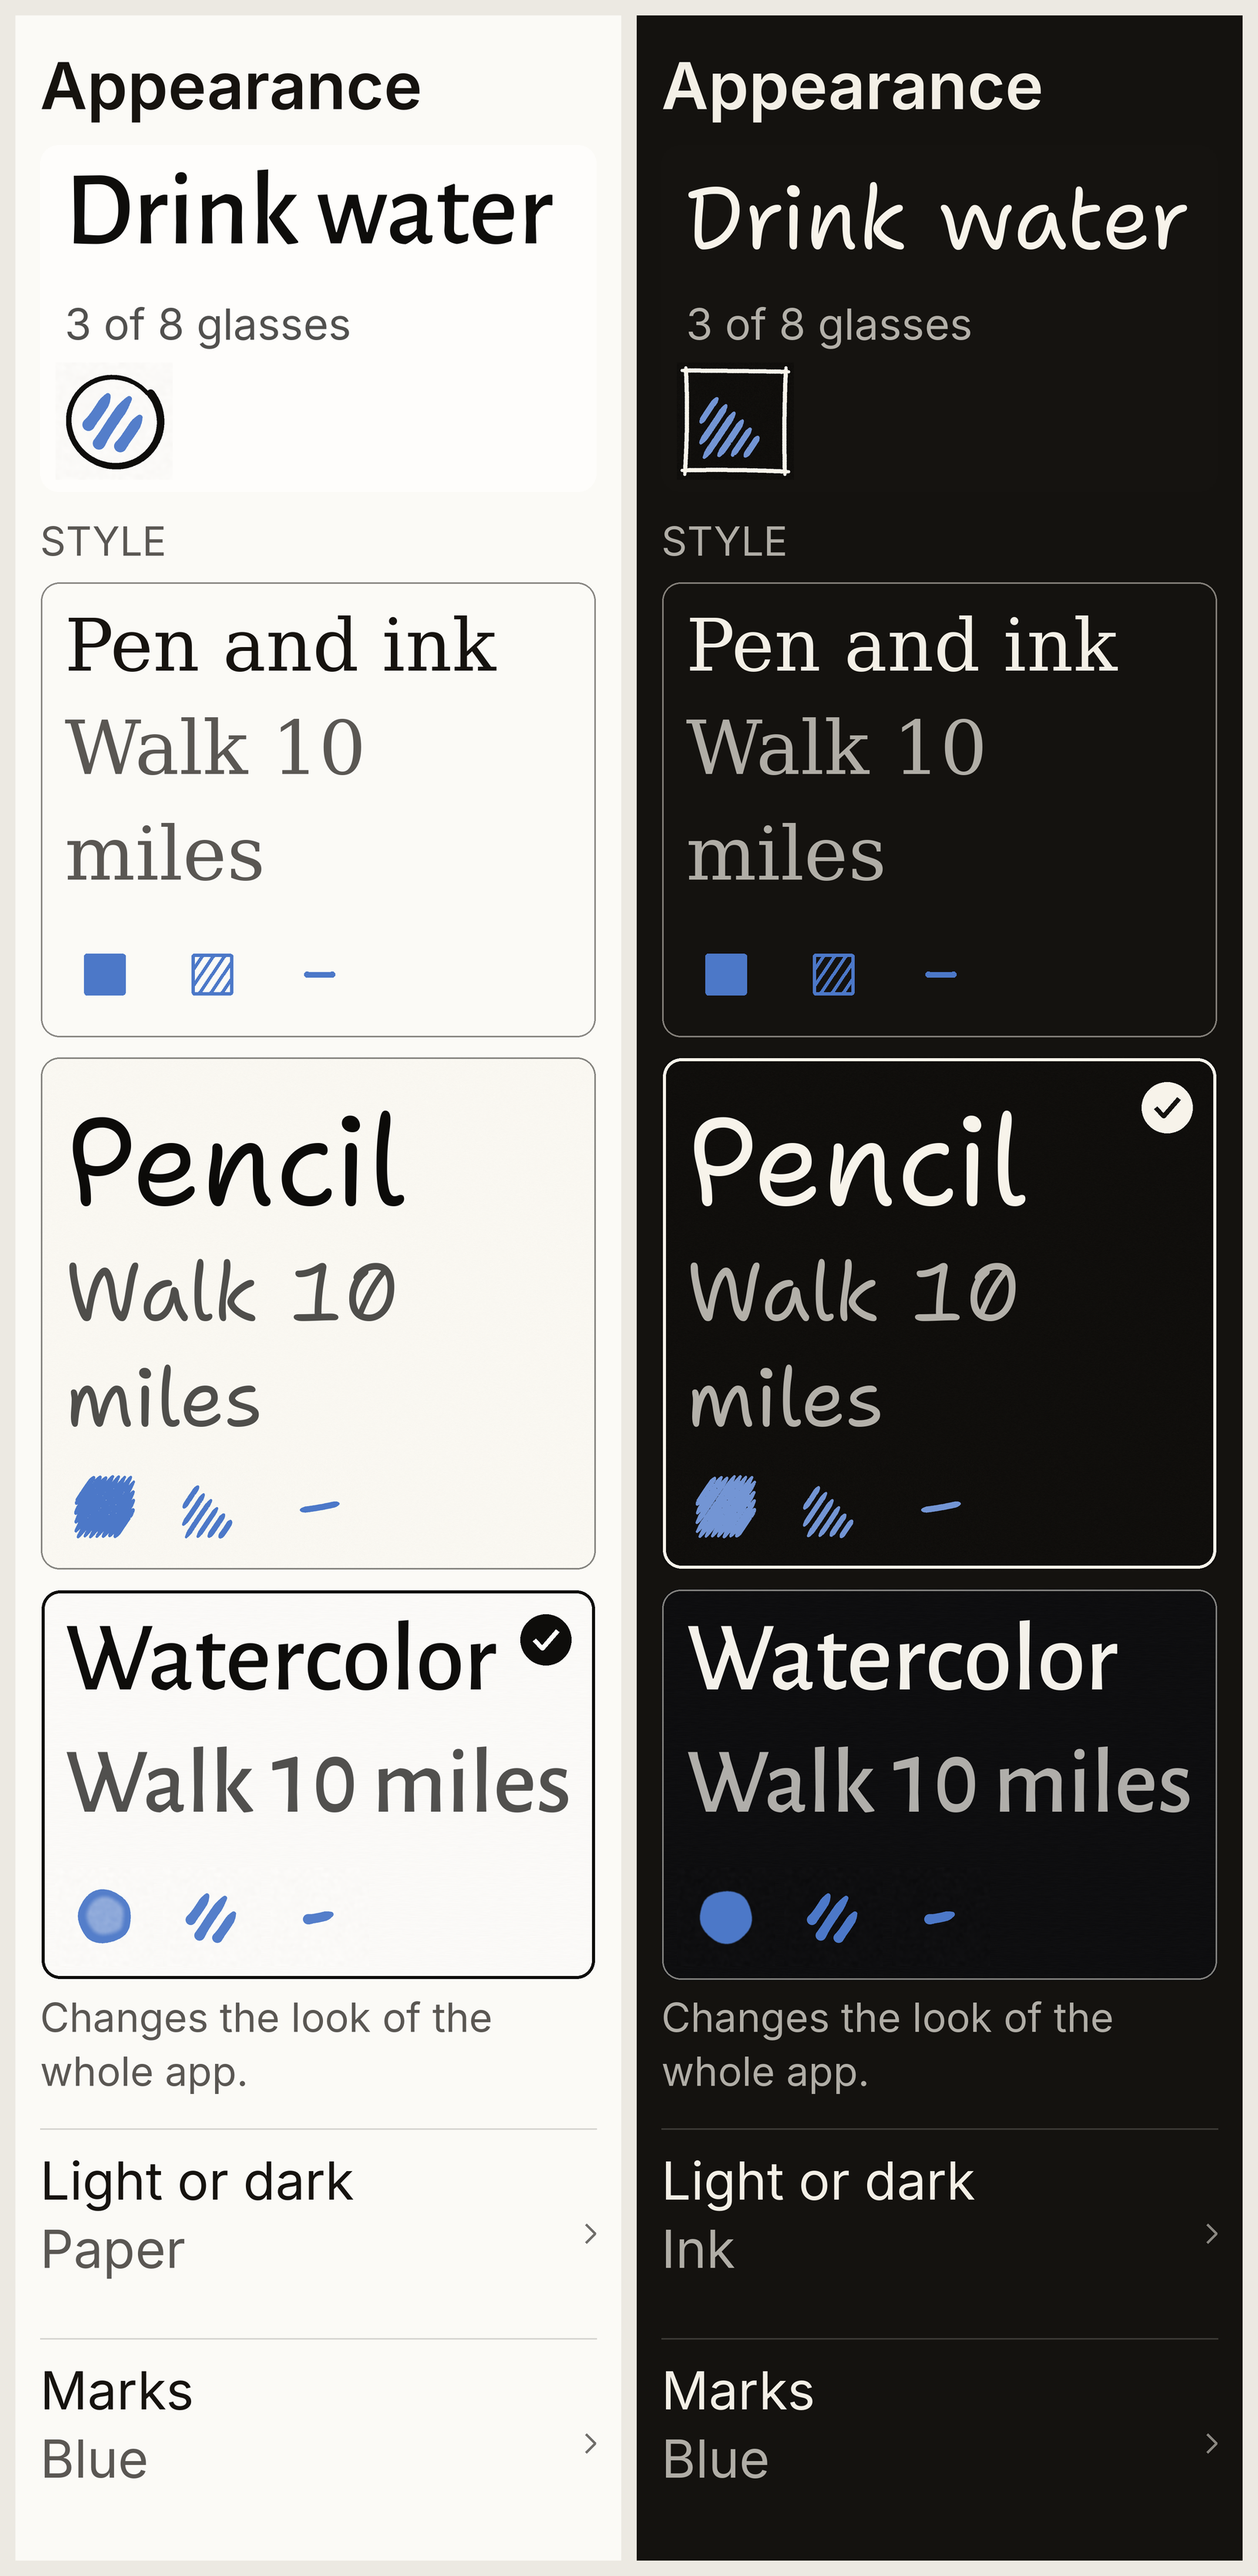
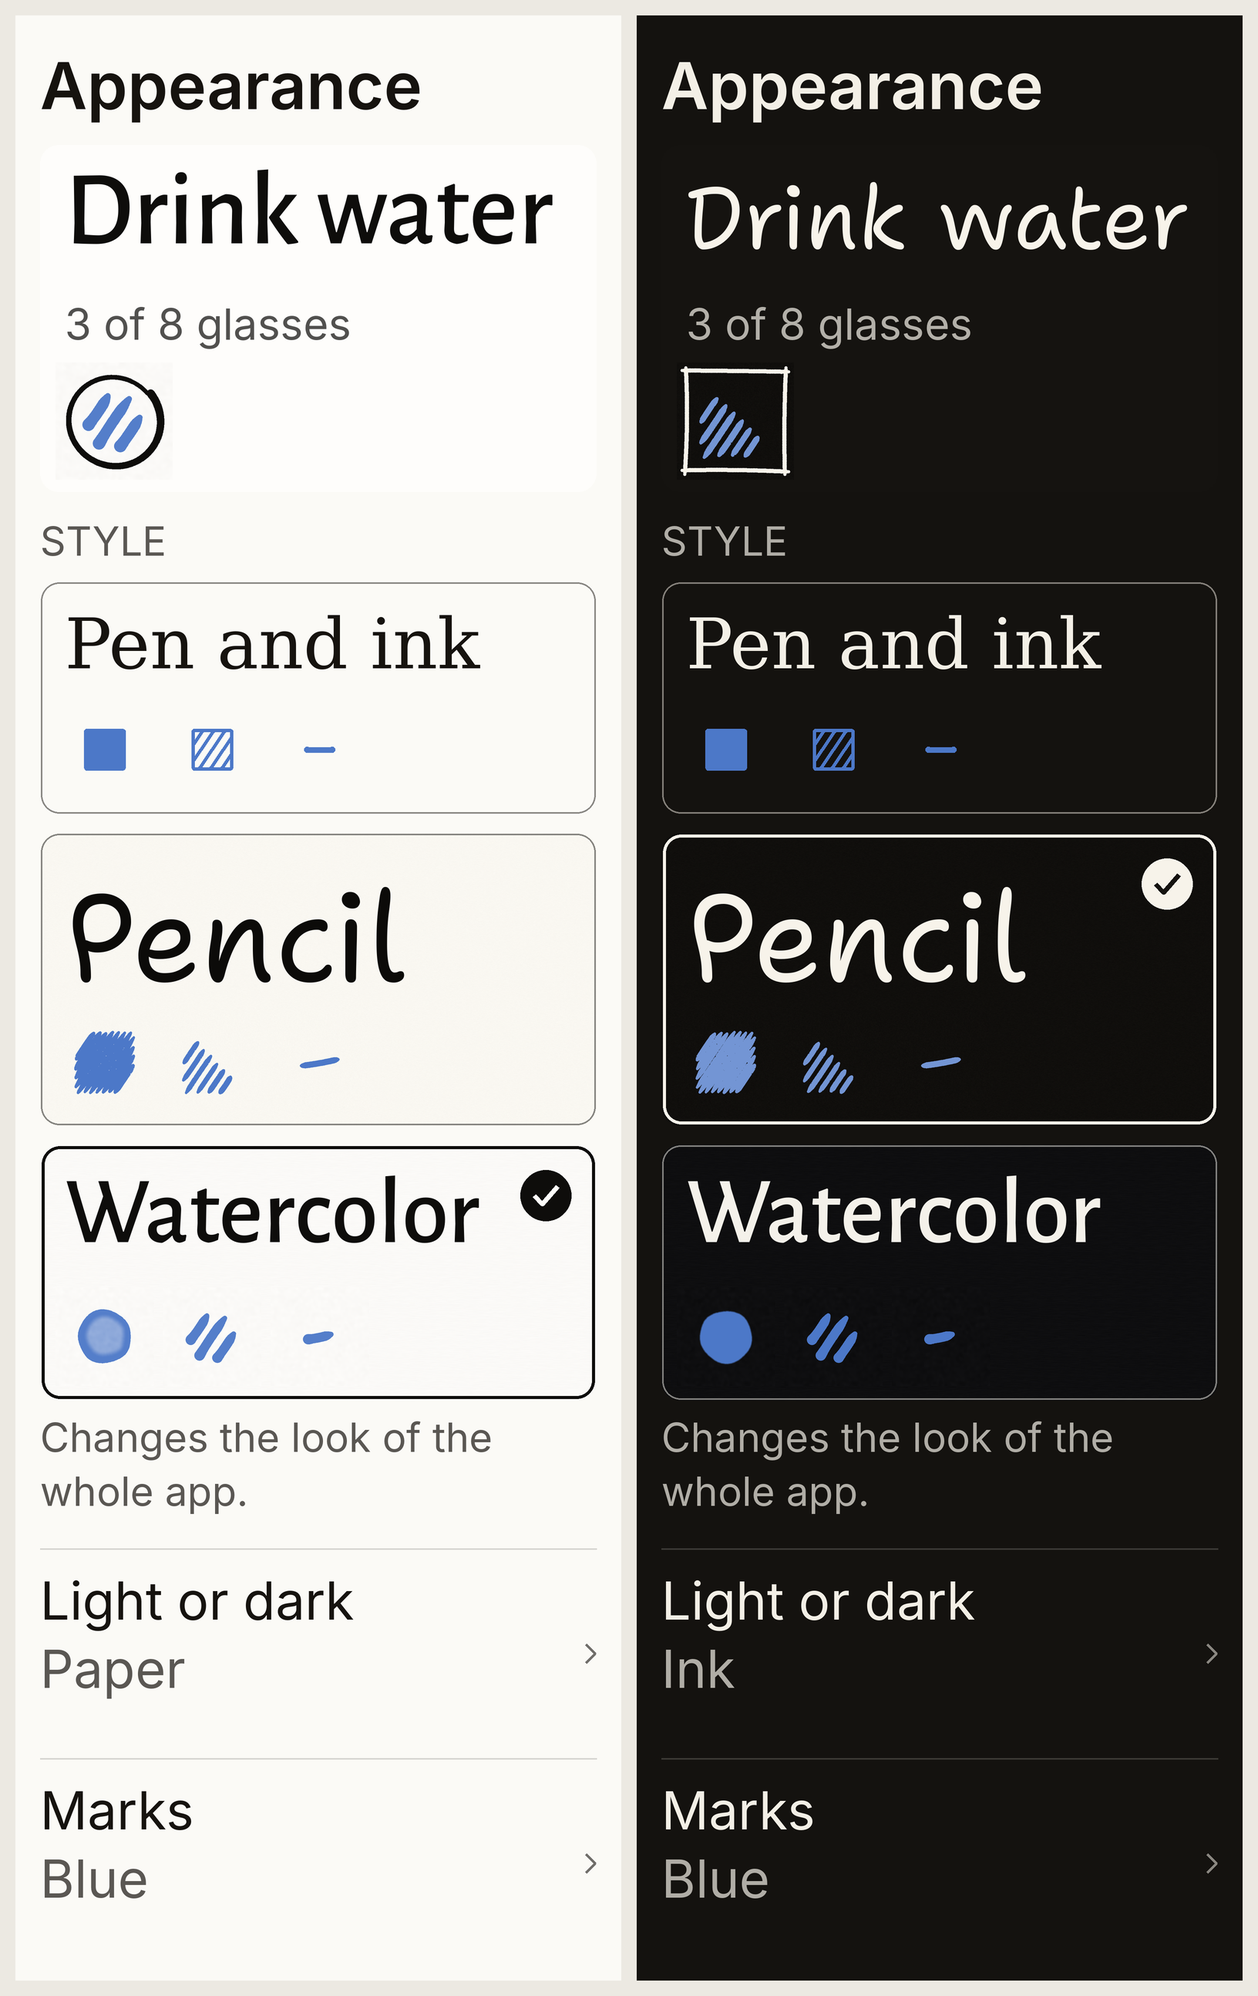
Style picker at accessibility sizes: no sample line, name clear of the checkmark. Gates updated
Claude-Session: https://claude.ai/code/session_012NdevCAvT4U8qS7nMJ64YM

diff --git a/tools/marks/style_picker.py b/tools/marks/style_picker.py
@@ -44,7 +44,7 @@ def tile(style, name, ap, chosen, tw=None, scale=1.0, accent_hex="blue"):
     name_pt, samp_pt, mark_pt = 26 * scale, 17 * scale, 44 * (1.45 if big else 1.0)
     f, feats = display(style, int(name_pt * Q)); kw = {"features": feats} if feats else {}
     probe = ImageDraw.Draw(Image.new("RGB", (8, 8)))
-    while probe.textlength(name, font=f, **kw) > (tw - 32 - (40 if big else 0)) * Q:           # the name is never cut: it steps down until it fits the tile
+    while probe.textlength(name, font=f, **kw) > (tw - 32 - (58 if big else 0)) * Q:           # the name is never cut, and it keeps clear of the checkmark: it steps down until it fits the tile
         name_pt *= 0.96; f, feats = display(style, int(name_pt * Q))
     f2, _ = display(style, int(samp_pt * Q))
     words, lines, cur = "Walk 10 miles".split(), [], ""
@@ -52,8 +52,9 @@ def tile(style, name, ap, chosen, tw=None, scale=1.0, accent_hex="blue"):
         if cur and probe.textlength(cur + " " + w_, font=f2, **kw) > (tw - 32 - (0 if big else 160)) * Q: lines.append(cur); cur = w_
         else: cur = (cur + " " + w_).strip()
     lines.append(cur)
+    if big: lines = []                                                                           # at accessibility sizes the name alone is the sample
     k = 1.15 if style == "watercolor" else 1.0
-    y_name = 14; y_samp = y_name + name_pt * k * 1.28; y_marks = y_samp + len(lines) * samp_pt * k * 1.3 + 6
+    y_name = 14; y_samp = y_name + name_pt * k * 1.28; y_marks = y_samp + len(lines) * samp_pt * k * 1.3 + (6 if lines else 0)
     th = int(y_marks + mark_pt + 10) if big else 96
     field = np.ones((th * Q, tw * Q, 3)) * paper
     g = tok.get("grain")

diff --git a/docs/spec-m4.md b/docs/spec-m4.md
@@ -233,7 +233,7 @@ The rule, as revised after round one:
 - One line under the tiles: "Changes the look of the whole app."
 - A tap chooses the style at once. Nothing is confirmed, because choosing again undoes it.
 - Each tile is one button of at least 76 points in height. VoiceOver reads the style's name with the selected trait. The sample line and the marks are hidden from VoiceOver. "Style" is a heading.
-- At the largest text sizes the text scales, the marks drop to their own line under it, and the tile grows.
+- At accessibility text sizes the name scales and steps down only if it would not fit beside the checkmark. The sample line is dropped, because the name is the sample. The marks sit on their own line under the name, and the tile grows. "Light or dark" and "Marks" put the value under the label.
 - Under Increase Contrast the marks on the tiles are drawn as step 4 says.
 - The "Light or dark" and "Marks" rows open lists and carry a disclosure chevron.
 - No tile shows a scene. Scenes are parked.
@@ -249,3 +249,11 @@ Drawing: `docs/mockups/png/m4-style-picker.png`, from `tools/marks/style_picker.
 Round two, 16 November 2026: both groups passed. Unchosen borders measure 3.27:1 and 3.32:1 on Paper, 4.61:1 and 4.73:1 on Ink. Tiles are 94 points high.
 
 Unchecked in a drawing: the 360 point cap on the Mac and iPad, and the layout at the largest text size.
+
+## After the owner's go-ahead, 16 November 2026: the open items
+
+The owner saw the picker, was on board, and asked for the open items to be fixed.
+
+- **Pencil part done.** It is now six strokes with paper between them, in the lower triangle. It was eleven overlapping strokes, which read as a solid wedge. Measured at 24 points: strokes 1.8 to 1.9 points wide with 2.2 to 2.7 points of paper between; 3.97:1 on Paper and 6.21:1 on Ink as drawn; 3.01:1 or more on Paper after the 0.75 point blur, with the gaps still showing. Done covers 526 square points after the blur and part done 48. Both groups passed it. The margin on Paper is thin, so the strokes must not get narrower. The small shapes at 12 points and under are unchanged.
+- **Largest text size.** `docs/mockups/png/m4-style-picker-ax5.png`. Accessibility passed it: nothing cut, tiles 250 points or taller, reading order sound. The designer asked for the sample line to go at these sizes and for the name to keep clear of the checkmark. Both are done.
+- **Wide window.** `docs/mockups/png/m4-style-picker-mac.png`, 700 points wide, the column capped at 360. The designer passed it. Whether the empty half is right on the Mac is for the Apple industrial designer at the stop.

diff --git a/docs/m4-gates.md b/docs/m4-gates.md
@@ -8,12 +8,13 @@
 |---|---|---|---|
 | Watercolor control in black | Human factors | One row shown for a glance under Increase Contrast. Does the disc in a ring read as a radio button, the paused dab as a delete button, the diamond as stepper arrows | The mark changes before it is built. The owner's view, recorded in `docs/spec-m4.md`: the ring's varied line weight keeps it from reading as a radio button |
 | Watercolor paused dab and diamond in colour | Human factors | The same glance test without Increase Contrast | The mark changes before it is built |
-| Pencil part done at 24 points | Accessibility, senior designer | On a device, can part done be told from done in Pencil at a glance | The strokes open up |
 | Plus in the Pen and ink counted control | Human factors, first-day user | Whether Pen and ink drops its plus, as Pencil and Watercolor have none | Pen and ink keeps its plus |
 | Names at the largest text size | Accessibility | A three-line name and a 58-character name in each style at the largest size, with Bold Text | The row gap grows with the text size in Watercolor |
 | Slashed zero at the largest size | Neurodiversity | Pencil's zero at the largest text size | The `zero` feature is turned off above a set size |
-| Style picker at the largest text size | Accessibility | A frame or device check: text scales, marks drop to their own line, tile grows | The layout is redrawn before the merge |
-| Style picker on Mac and iPad | Senior designer | Tiles capped at 360 points in a wide window | The cap is redrawn |
+
+| Appearance page on the Mac | Apple industrial designer | A 700 point window leaves the right half empty with the column capped at 360 | The column is centred or the tiles sit in a row |
+
+Closed on 16 November 2026 by a drawing and a measurement: Pencil part done at 24 points, the style picker at the largest text size, the 360 point cap.
 
 ## Owed: a fix is applied and no lens has measured it since
 
